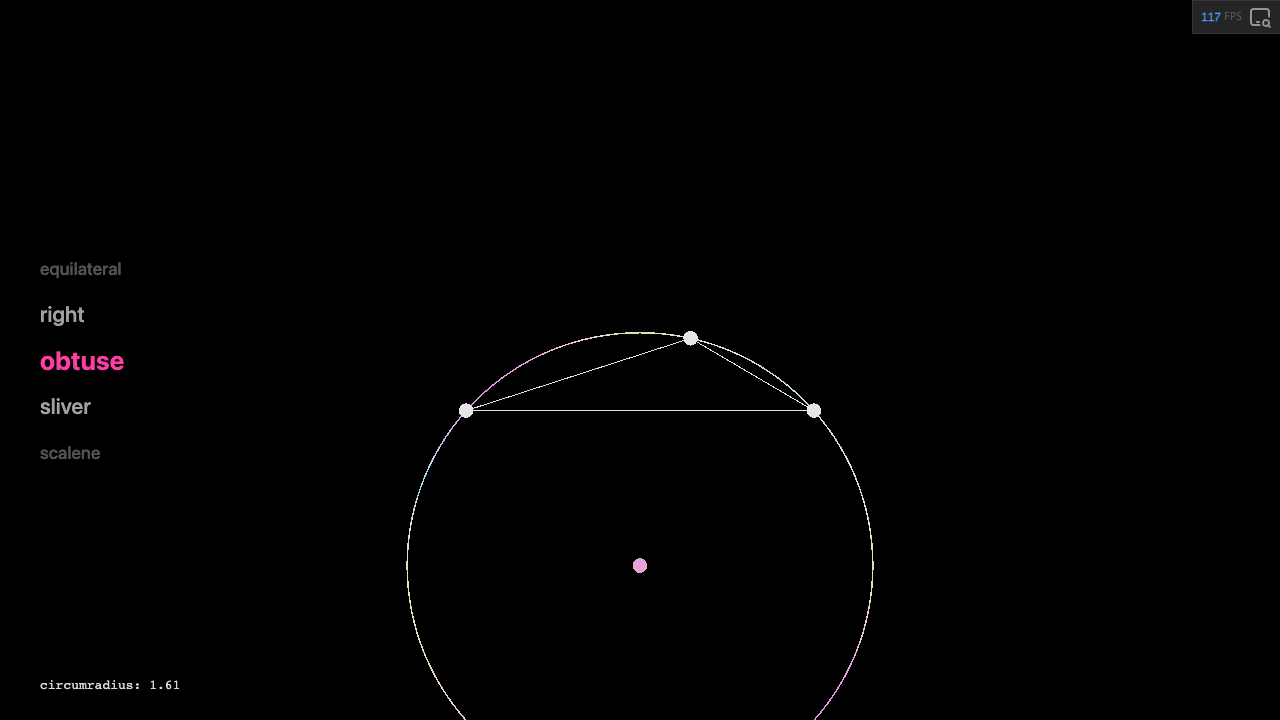
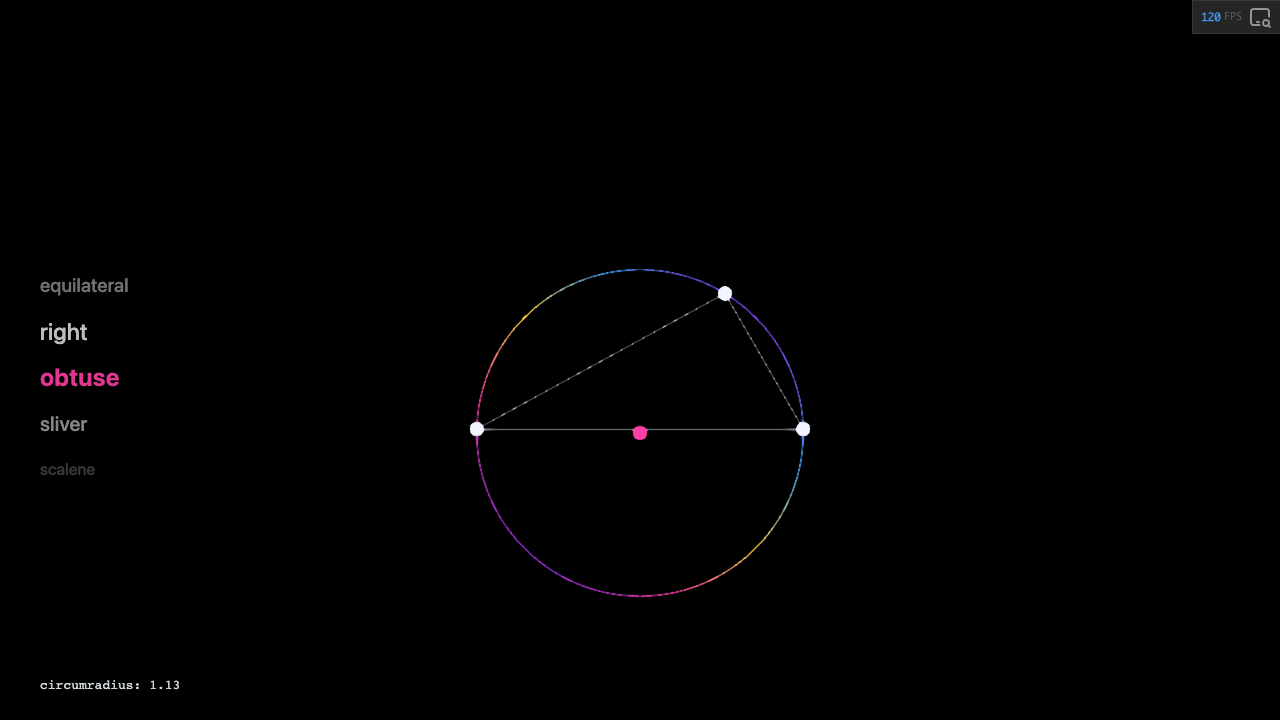
feat: fxaa anti-aliasing in both examples

diff --git a/examples/src/example-convex-hull-3d.ts b/examples/src/example-convex-hull-3d.ts
@@ -272,7 +272,7 @@ camera.updateViewMatrix();
 /* ------------------------------------------------------------------ render loop */
 
 const scenePass = g.pass(scene, camera);
-const outputNode = g.renderOutput(scenePass.getTextureNode());
+const outputNode = g.fxaa(scenePass.getTextureNode());
 const renderPipeline = new g.RenderPipeline(renderer, outputNode);
 
 function frame() {

diff --git a/examples/src/example-circumcircle.ts b/examples/src/example-circumcircle.ts
@@ -128,7 +128,7 @@ const c = vec2.create();
 const circ = circle.create();
 
 const scenePass = g.pass(scene, camera);
-const outputNode = g.renderOutput(scenePass.getTextureNode());
+const outputNode = g.fxaa(scenePass.getTextureNode());
 const renderPipeline = new g.RenderPipeline(renderer, outputNode);
 
 function setDot(dot: g.Mesh, x: number, y: number) {
